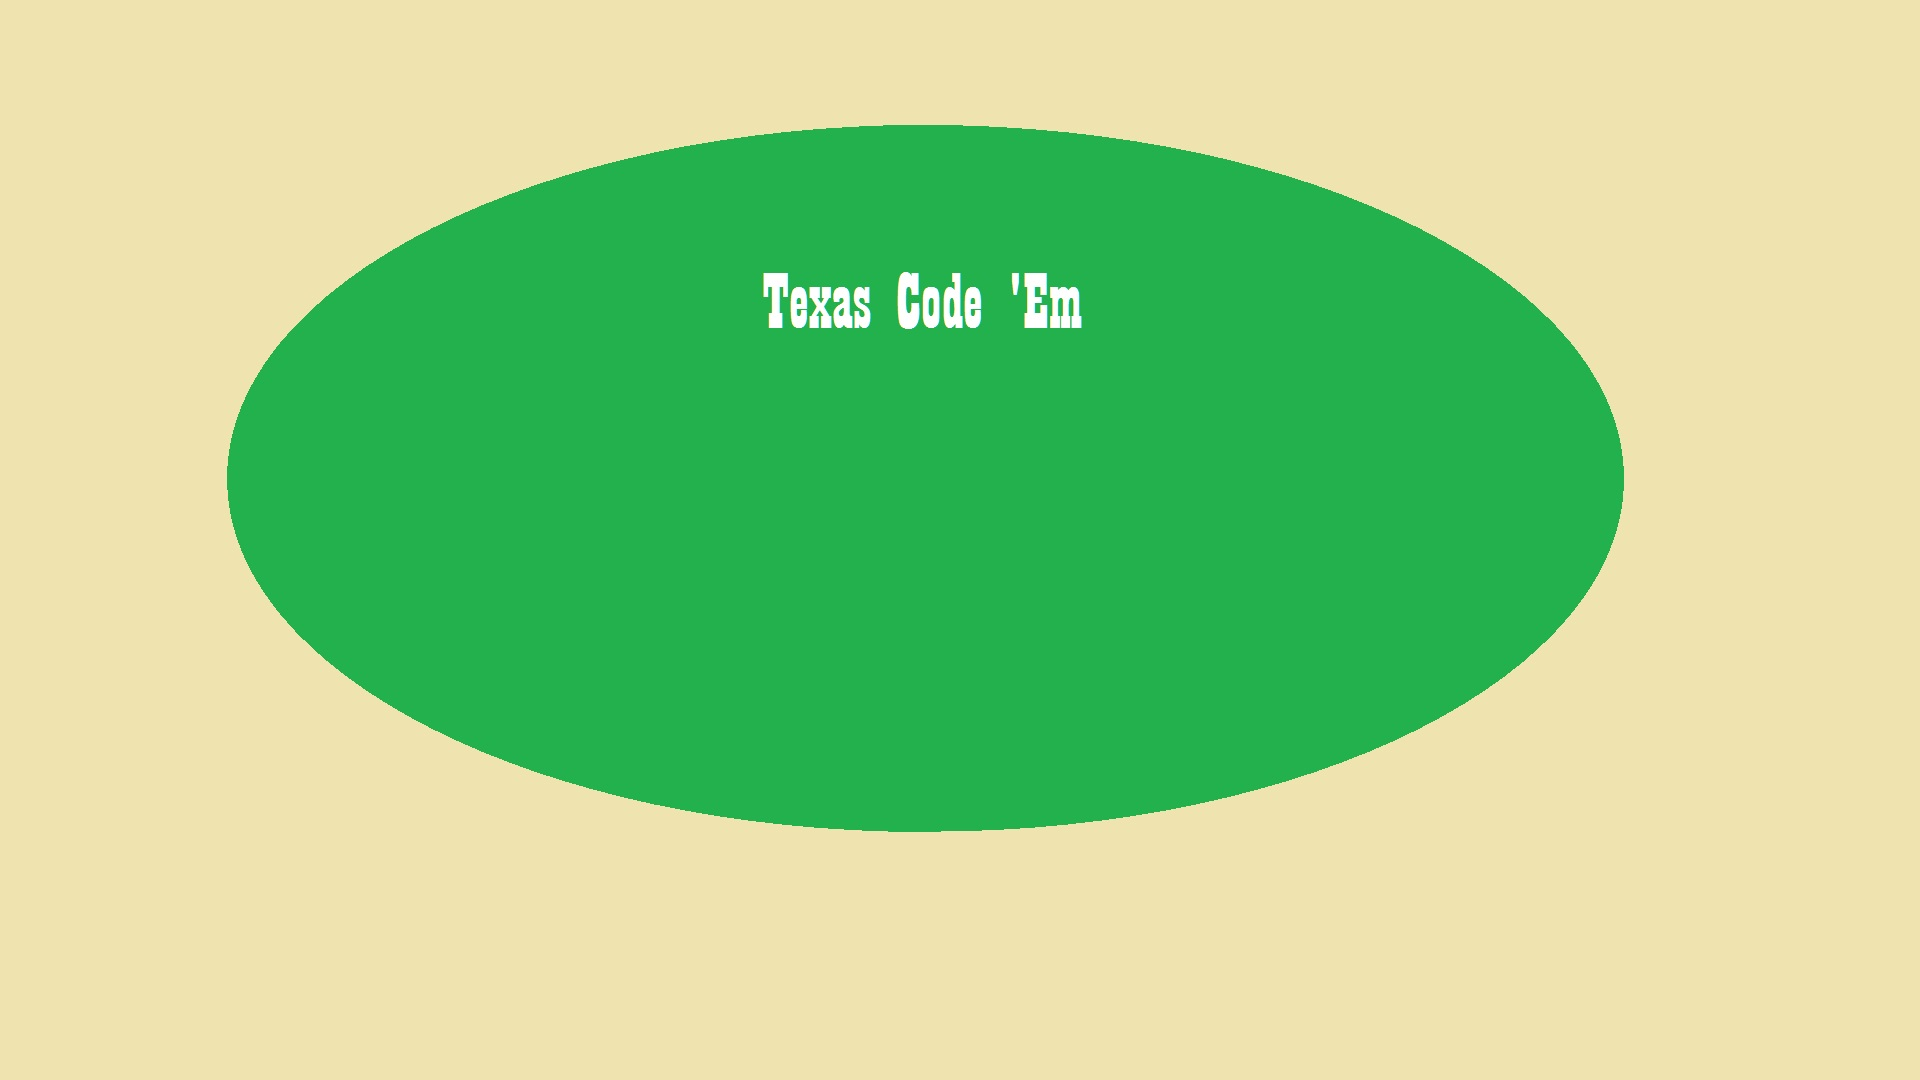
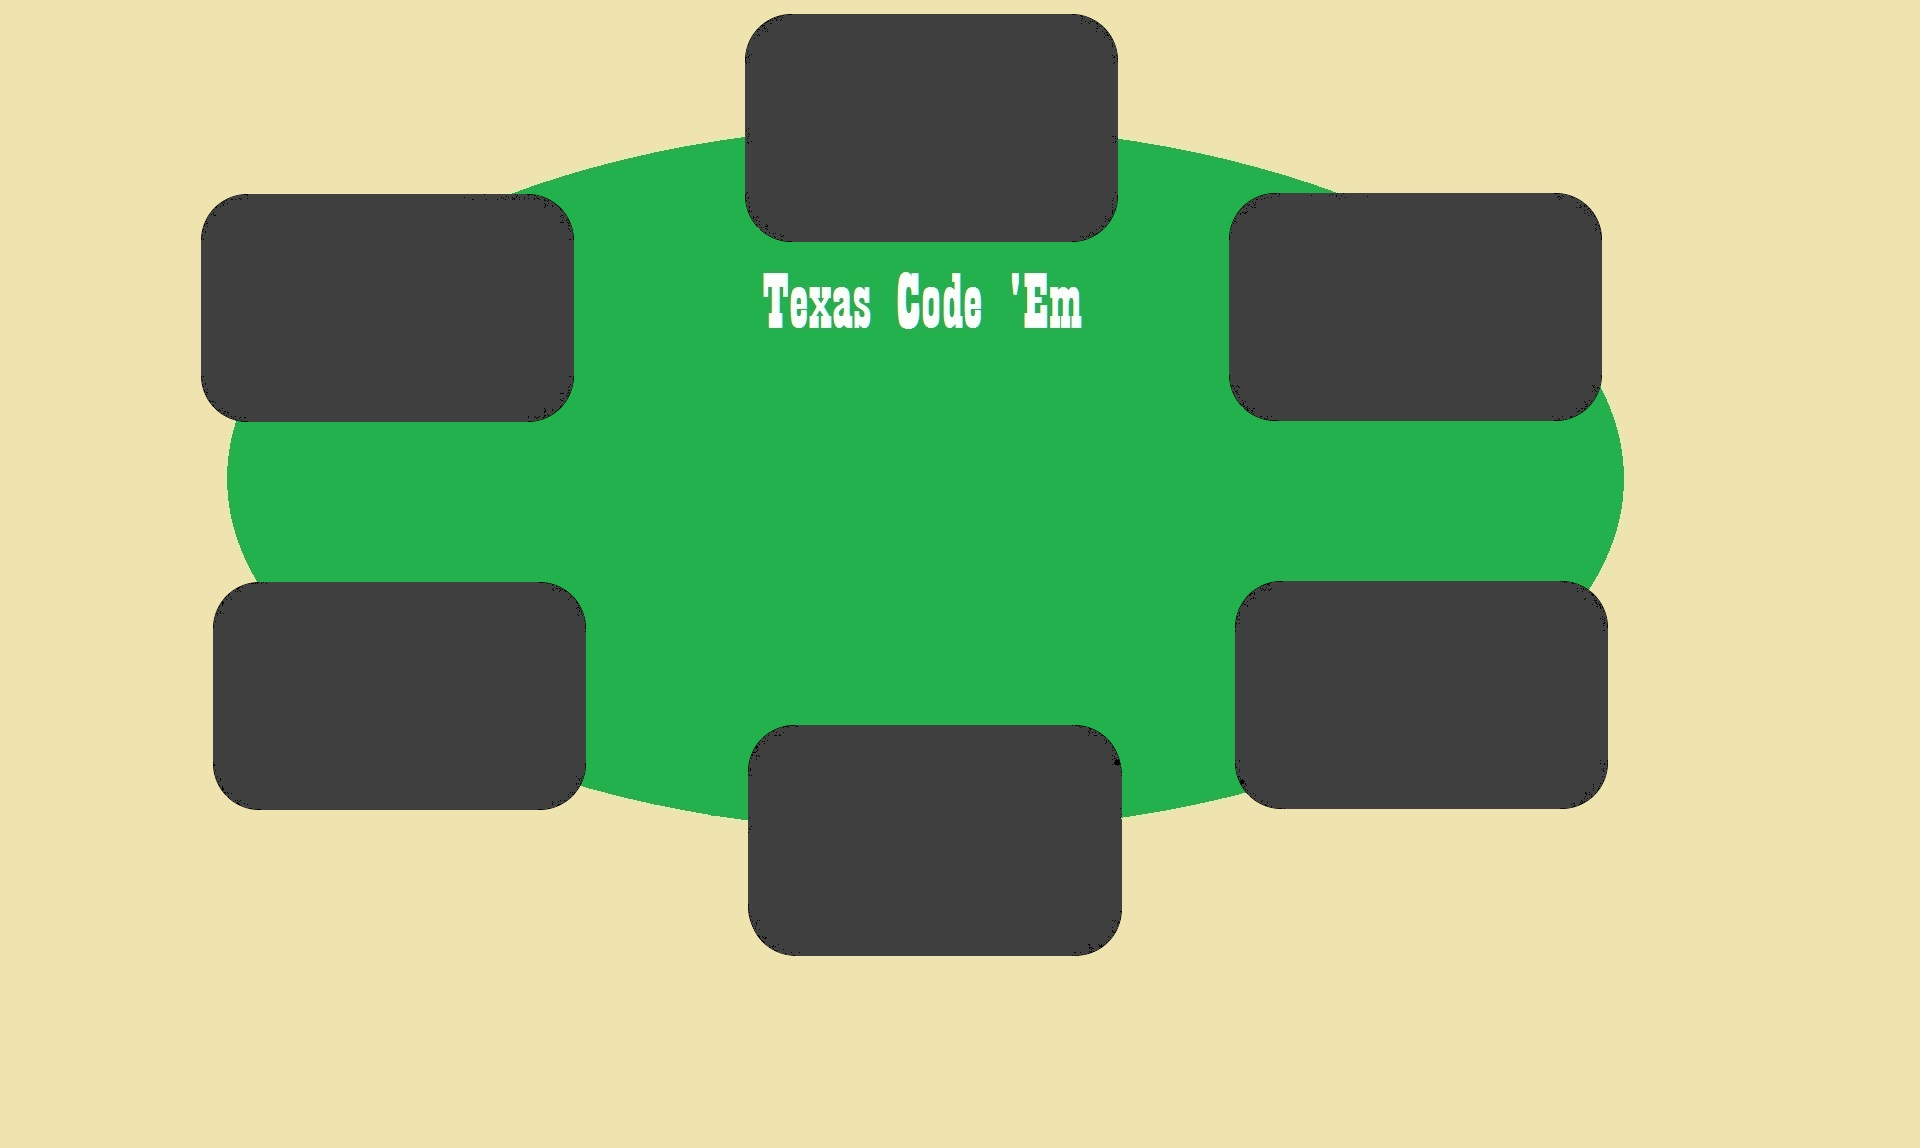
Edit background image to have panels for each player

Changed region(s): [[0.0938, 0.0, 0.8438, 0.3972], [0.0938, 0.4583, 0.8438, 0.8556], [0.0938, 0.4583, 0.125, 0.4889]]

diff --git a/Window.java b/Window.java
@@ -5,6 +5,7 @@ import java.awt.image.BufferedImage;
 import java.io.IOException;
 import javax.imageio.ImageIO;
 import javax.swing.JPanel;
+import java.util.ArrayList;
 
 public class Window extends JPanel{
     
@@ -25,6 +26,8 @@ public class Window extends JPanel{
     public BufferedImage other3card2Image;
     public BufferedImage other4card1Image;
     public BufferedImage other4card2Image;
+
+    private ArrayList<BufferedImage> profilePictures;
 
     private Card card1;
     private Card card2;
@@ -62,10 +65,15 @@ public class Window extends JPanel{
         this.width = width;
         this.height = height;  
         this.username = user;
+        this.profilePictures = new ArrayList<BufferedImage>();
         
-        //open the background image
-        try {                
+        
+        try {
+            //open the background image              
             background = ImageIO.read(getClass().getResourceAsStream("/img/background.jpg"));
+
+            // Add the player's profile picture
+            profilePictures.add(ImageIO.read(getClass().getResourceAsStream("/img/testProfilePicture.jpg")));
        } catch (IOException ex) {
             System.out.println(ex); // handle exception...
        }
@@ -84,16 +92,19 @@ public class Window extends JPanel{
         //Draw Hold Card outline
         //TODO draw backs of cards here
         g.setColor(Color.white);
-        g.drawRect(xC - widthC - 15, yC, widthC, heightC);
-        g.fillRect(xC - widthC - 15, yC, widthC, heightC);
-        g.drawRect(xC, yC, widthC, heightC);
-        g.fillRect(xC, yC, widthC, heightC);
+        g.drawRect(xC - widthC + 75, yC, widthC, heightC);
+        g.fillRect(xC - widthC + 75, yC, widthC, heightC);
+        g.drawRect(xC + 40, yC, widthC, heightC);
+        g.fillRect(xC + 40, yC, widthC, heightC);
         
         //Draw username
         g.setColor(Color.BLACK);
         Font font = new Font ("Courier New", Font.BOLD, 24);
         g.setFont(font);
-        g.drawString(this.username, xC + widthC - 175, yC + 150);
+        g.drawString(this.username, xC + widthC - 135, yC + 150);
+
+        // Draw profile picture
+        g.drawImage(profilePictures.get(0), 765, 750, this);
         
         //draw the cards if they are dealt
         if (readyToDrawCards){
@@ -104,8 +115,8 @@ public class Window extends JPanel{
                 System.out.println(ex); // handle exception...
             }
             //Draw Hole Cards
-            g.drawImage(card1Image, xC - widthC - 15, yC, widthC, heightC, this);
-            g.drawImage(card2Image, xC, yC, widthC, heightC, this);
+            g.drawImage(card1Image, xC - widthC + 75, yC, widthC, heightC, this);
+            g.drawImage(card2Image, xC + 40, yC, widthC, heightC, this);
         }    
         
         // TODO: need to pass in more stuff here

diff --git a/TexasCodeEm.java b/TexasCodeEm.java
@@ -97,8 +97,7 @@ public class TexasCodeEm {
     
     public void getAction(){        
         //send action to the person at index of startIndex
-        TexasCodeEm.players.get(0).sendMessage("getaction");
-        
+        TexasCodeEm.players.get(0).sendMessage("getaction");        
     }
     
     public void dealToTable(){  
@@ -145,11 +144,11 @@ public class TexasCodeEm {
             run();
             
         } catch (Exception e){
-            System.out.println(e);
+            System.out.println("Error: " + e + "\nPort number " + PORT + " is already in use.");
         }
     }
     
-    private void endGame() throws Exception{         
+    private void endGame() throws Exception {         
         System.out.println("Server Error");
         this.gameOver = true;
         closeServerSocket();

diff --git a/Session.java b/Session.java
@@ -1,4 +1,4 @@
-// Session | The main class for each client that connects
+// Session.java | The main class for each client that connects
 
 import java.io.BufferedReader;
 import java.io.IOException;

diff --git a/README.md b/README.md
@@ -1,6 +1,10 @@
-# TexasCodeEm
-Texas Hold 'Em Java Client
+### TexasCodeEm
+# Texas Hold 'Em Java Client
 
-Started January 2017.
+## Started January 2017.
 
-TODO: Work on logic for getting action
+# TODO: Work on logic for getting action
+
+Notes for final README:
+    * Put instructions on running server and client with porn number in args
+    * Reccomend using image that is a square
